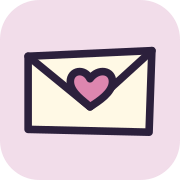
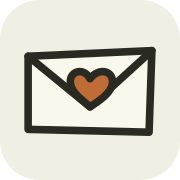
Update Site source

Changed region(s): [[0.1389, 0.25, 0.8611, 0.75]]

diff --git a/app/letter.css b/app/letter.css
@@ -1,10 +1,10 @@
 .post-site {
-  --post-ink: #2c203c;
-  --post-muted: #675168;
-  --post-pink: #e49abb;
-  --post-ground: #f2ddea;
-  --post-paper: #fffcf2;
-  --post-line: #d8b9cf;
+  --post-ink: #292b23;
+  --post-muted: #656951;
+  --post-accent: #a9552e;
+  --post-ground: #efefe4;
+  --post-paper: #f9f8ec;
+  --post-line: #dcdccc;
   --post-display: "Manrope", system-ui, sans-serif;
   --post-hand: "Caveat", "Comic Sans MS", cursive;
   min-height: 100vh;
@@ -13,21 +13,23 @@
   background: repeating-linear-gradient(to bottom, var(--post-ground) 0 33px, var(--post-line) 33px 34px);
 }
 .post-site *, .post-site *::before, .post-site *::after { box-sizing: border-box; }
-.post-site :is(button, input, textarea, select, summary, a):focus-visible { outline: 3px solid #823b69; outline-offset: 4px; }
+.post-site :is(button, input, textarea, select, summary, a):focus-visible { outline: 3px solid #92512c; outline-offset: 4px; }
 .post-site button:disabled { cursor: not-allowed; opacity: .55; }
 .post-site a { color: inherit; }
 .post-header { max-width: 1240px; margin: 0 auto; padding: 22px clamp(18px, 4vw, 54px); min-height: 76px; display: flex; align-items: center; justify-content: space-between; gap: 14px; }
 .post-brand { display: inline-flex; align-items: center; gap: 6px; color: var(--post-ink); font: 800 31px/1 var(--post-display); letter-spacing: -2px; text-decoration: none; }
 .post-brand svg { transform: rotate(-9deg); }
-.post-brand span { color: #a24673; margin-left: -4px; }
+.post-brand span { color: #a9552e; margin-left: -4px; }
 .post-about { display: inline-flex; align-items: center; gap: 7px; font: 750 13px/1.4 var(--post-display); text-decoration: none; }
 .post-about:hover, .post-back:hover { text-decoration: underline; text-underline-offset: 4px; }
 .post-main { max-width: none; margin: 0; }
 .post-hero, .post-ideas, .post-how, .post-demo, .post-faq, .post-inbox { text-align: center; }
 .post-hero { display: flex; flex-direction: column; align-items: center; padding: 30px 20px 42px; }
-.post-kicker { display: inline-flex; align-items: center; justify-content: center; gap: 6px; font: 800 11px/1.4 var(--post-display); letter-spacing: .17em; color: #82516d; }
+.post-kicker { display: inline-flex; align-items: center; justify-content: center; gap: 6px; font: 800 11px/1.4 var(--post-display); letter-spacing: .17em; color: #656b4f; }
 .post-hero h1, .post-heading h1 { font: 800 clamp(46px, 7vw, 74px)/1.02 var(--post-display); letter-spacing: -.073em; margin: 15px 0 13px; color: var(--post-ink); }
-.post-hero h1 em { color: #8d3e69; font: 700 1.05em/.9 var(--post-hand); }
+.post-hero h1 em { color: #a9552e; font: 700 1.09em/.9 var(--post-hand); }
+.post-hero > p, .post-postscript { font: 600 23px/1.25 var(--post-hand); }
+.post-postscript { margin: 28px 0 0; color: var(--post-muted); }
 .post-hero > p, .post-heading > p { color: var(--post-muted); font-size: clamp(15px, 2.1vw, 18px); line-height: 1.55; margin: 0; }
 .post-envelope-button { display: block; padding: 0; border: 0; background: none; color: inherit; margin: 0 auto; }
 .post-envelope { display: block; width: min(420px, 80vw); margin: -13px auto 0; color: var(--post-ink); transform: rotate(-4deg); }
@@ -36,7 +38,7 @@
 .post-envelope.is-compact { width: min(235px, 60vw); margin-top: -22px; }
 .post-envelope-button .post-envelope { transition: transform .23s ease; }
 .post-envelope-button:hover .post-envelope { transform: rotate(2deg) translateY(-6px); }
-.post-sparks { color: #9b4b77; }
+.post-sparks { color: #a9552e; }
 .post-letter-slide, .post-flap-open { opacity: 0; transition: opacity .25s, transform .35s; transform: translateY(35px); }
 .post-flap-closed, .post-seal { transition: opacity .2s; }
 .post-envelope.is-open .post-letter-slide, .post-envelope.is-open .post-flap-open { opacity: 1; transform: translateY(-28px); }
@@ -44,48 +46,48 @@
 .post-button { display: inline-flex; justify-content: center; align-items: center; gap: 9px; padding: 12px 22px; min-height: 46px; border: 2px solid var(--post-ink); border-radius: 999px; font: 800 14px/1.3 var(--post-display); text-decoration: none; color: var(--post-ink); box-shadow: 2px 3px 0 var(--post-ink); transition: transform .18s, box-shadow .18s; }
 .post-button:not(:disabled):hover { transform: translateY(-2px); box-shadow: 3px 5px 0 var(--post-ink); }
 .post-button:not(:disabled):active { transform: translate(2px, 3px); box-shadow: none; }
-.post-primary { background: var(--post-pink); }
+.post-primary { background: var(--post-accent); color: #fffaf0; }
 .post-secondary { background: var(--post-paper); }
 .post-hero > .post-button { padding: 14px 26px; font-size: 16px; }
 .post-note { display: block; font-size: 12px; color: var(--post-muted); line-height: 1.5; }
 .post-hero > .post-note { margin-top: 17px; }
-.post-ideas { padding: 29px 18px 52px; border-top: 1px dashed #c69eb9; }
+.post-ideas { padding: 29px 18px 52px; border-top: 1px dashed #c8cab6; }
 .post-site h2 { color: var(--post-ink); font: 800 clamp(30px, 5vw, 48px)/1.07 var(--post-display); letter-spacing: -.06em; margin: 10px 0 12px; }
 .post-ideas p, .post-how p { margin: 0; color: var(--post-muted); }
 .post-chips { display: flex; justify-content: center; flex-wrap: wrap; gap: 11px; max-width: 750px; margin: 21px auto 0; }
 .post-chips button, .post-options button { display: inline-flex; align-items: center; gap: 7px; min-height: 38px; padding: 8px 13px; border-radius: 12px 11px 14px 10px; border: 1.5px solid var(--post-ink); background: var(--post-paper); color: var(--post-ink); font: 750 13px var(--post-display); }
-.post-chips button:hover, .post-options button:hover, .post-options button[aria-pressed="true"] { background: #f7cbe1; }
-.post-chips button span { color: #a74876; }
+.post-chips button:hover, .post-options button:hover, .post-options button[aria-pressed="true"] { background: #eeebce; }
+.post-chips button span { color: #a9552e; }
 .post-how, .post-demo, .post-faq { max-width: 850px; margin: 0 auto; padding: 47px 22px; }
 .post-how ol { display: grid; grid-template-columns: repeat(3, 1fr); gap: 17px; padding: 0; margin: 27px 0 0; list-style: none; }
-.post-how li { border: 1.7px solid var(--post-ink); border-radius: 14px 12px 15px 11px; padding: 21px 15px; background: var(--post-paper); box-shadow: 2px 3px 0 #b889ac; }
-.post-how li:nth-child(2) { background: #fff0f5; }
-.post-how li:nth-child(3) { background: #f1e7ff; }
-.post-how li > svg { color: #a74876; }
+.post-how li { border: 1.7px solid var(--post-ink); border-radius: 14px 12px 15px 11px; padding: 21px 15px; background: var(--post-paper); box-shadow: 2px 3px 0 #bcbea5; }
+.post-how li:nth-child(2) { background: #f5eedc; }
+.post-how li:nth-child(3) { background: #e8eadd; }
+.post-how li > svg { color: #a9552e; }
 .post-how h3 { font: 800 16px/1.25 var(--post-display); margin: 8px 0; }
 .post-how p { font-size: 13px; }
-.post-demo { background: #faedf5c9; border-block: 1px dashed #c69eb9; }
+.post-demo { background: #f9f8ecc9; border-block: 1px dashed #c8cab6; }
 .post-demo .post-envelope { width: min(300px, 70vw); }
 .post-demo-paper { display: grid; justify-items: center; gap: 20px; max-width: 530px; margin: 24px auto 0; }
 .post-demo-paper .letter-paper { width: 100%; }
 .post-faq { max-width: 680px; padding-bottom: 68px; }
-.post-faq details { text-align: left; border-bottom: 1px dashed #b991ae; padding: 13px 2px; }
+.post-faq details { text-align: left; border-bottom: 1px dashed #c7c9b4; padding: 13px 2px; }
 .post-faq summary, .post-toolbar summary { cursor: pointer; font-weight: 750; }
 .post-faq details p { margin: 8px 0 0; color: var(--post-muted); line-height: 1.6; }
 .post-faq details a { text-decoration: underline; }
 .post-faq > .post-button { margin-top: 24px; }
 .post-footer { max-width: 1240px; margin: 0 auto; padding: 0 clamp(18px, 4vw, 54px); }
-.post-footer .site-footer { border-top-color: #b991ae; color: var(--post-muted); }
-.post-footer .site-footer a:hover { color: #823b69; }
+.post-footer .site-footer { border-top-color: #c7c9b4; color: var(--post-muted); }
+.post-footer .site-footer a:hover { color: #92512c; }
 .post-workflow, .post-inbox { max-width: 960px; margin: 0 auto; padding: 10px 22px 68px; min-height: calc(100vh - 146px); }
 .post-progress { display: flex; justify-content: center; flex-wrap: wrap; align-items: center; gap: 12px; margin: 0 auto 28px; width: fit-content; background: var(--post-paper); border: 1.5px solid var(--post-ink); border-radius: 11px 14px 11px 13px; padding: 8px 13px; }
-.post-progress > span { font-size: 10px; font-weight: 800; letter-spacing: .08em; color: #82516d; }
+.post-progress > span { font-size: 10px; font-weight: 800; letter-spacing: .08em; color: #656b4f; }
 .post-progress ol { display: flex; gap: 11px; padding: 0; margin: 0; list-style: none; }
-.post-progress li { display: flex; align-items: center; gap: 5px; color: #6d596b; font-size: 11px; font-weight: 750; }
+.post-progress li { display: flex; align-items: center; gap: 5px; color: #686d54; font-size: 11px; font-weight: 750; }
 .post-progress li[aria-current] { color: var(--post-ink); }
 .progress-dot { width: 8px; height: 8px; border: 1px solid var(--post-ink); border-radius: 50%; }
-.post-progress li[aria-current] .progress-dot { background: #e18cb2; }
-.post-progress li[data-complete="true"] .progress-dot { background: #ae6993; }
+.post-progress li[aria-current] .progress-dot { background: #bf6c37; }
+.post-progress li[data-complete="true"] .progress-dot { background: #747b58; }
 .post-heading { text-align: center; margin: 0 auto 28px; }
 .post-heading h1 { font-size: clamp(39px, 6vw, 62px); letter-spacing: -.067em; }
 .post-heading h1:focus { outline: none; }
@@ -93,49 +95,49 @@
 .post-toolbar { display: flex; justify-content: flex-end; margin-bottom: 15px; }
 .post-toolbar details { position: relative; }
 .post-toolbar summary { background: var(--post-paper); border: 1.5px solid var(--post-ink); border-radius: 10px 9px 12px 8px; padding: 9px 12px; font-size: 13px; }
-.post-template-menu { position: absolute; z-index: 3; top: calc(100% + 5px); right: 0; width: 205px; background: var(--post-paper); border: 1.5px solid var(--post-ink); border-radius: 10px; padding: 6px; box-shadow: 3px 4px 0 #b889ac; }
+.post-template-menu { position: absolute; z-index: 3; top: calc(100% + 5px); right: 0; width: 205px; background: var(--post-paper); border: 1.5px solid var(--post-ink); border-radius: 10px; padding: 6px; box-shadow: 3px 4px 0 #bcbea5; }
 .post-template-menu button { width: 100%; background: none; border: 0; text-align: left; color: var(--post-ink); padding: 8px; border-radius: 6px; font-size: 13px; }
-.post-template-menu button:hover { background: #f7cbe1; }
+.post-template-menu button:hover { background: #eeebce; }
 .post-editor { position: relative; isolation: isolate; }
-.post-editor::after { content: ""; position: absolute; z-index: -1; inset: 4px -4px -5px 7px; transform: rotate(1.15deg); border: 2px solid var(--post-ink); border-radius: 6px 9px 5px 8px; background: #fff5e3; }
+.post-editor::after { content: ""; position: absolute; z-index: -1; inset: 4px -4px -5px 7px; transform: rotate(1.15deg); border: 2px solid var(--post-ink); border-radius: 6px 9px 5px 8px; background: #e8e9d7; }
 .post-editor textarea { display: block; width: 100%; height: clamp(270px, 42vh, 430px); min-height: 220px; max-height: none; resize: vertical; border: 2px solid var(--post-ink); border-radius: 7px 6px 8px 5px; background: var(--post-paper); padding: 24px 28px 40px; font: 500 clamp(23px, 3vw, 30px)/1.27 var(--post-hand); color: var(--post-ink); }
-.post-editor textarea::placeholder { color: #897584; opacity: 1; }
-.post-count { position: absolute; right: 15px; bottom: 10px; background: var(--post-paper); color: #745d70; font: 750 11px var(--post-display); pointer-events: none; }
+.post-editor textarea::placeholder { color: #777a65; opacity: 1; }
+.post-count { position: absolute; right: 15px; bottom: 10px; background: var(--post-paper); color: #6d7259; font: 750 11px var(--post-display); pointer-events: none; }
 .post-actions { display: flex; justify-content: space-between; align-items: center; gap: 12px; margin: 23px auto 0; }
 .post-back { display: inline-flex; align-items: center; gap: 5px; padding: 6px 0; border: 0; background: none; color: var(--post-ink); font: 750 13px var(--post-display); }
 .post-customize { display: grid; grid-template-columns: minmax(255px, 1fr) minmax(0, 1.2fr); align-items: start; gap: 26px; }
-.post-settings, .post-panel { background: var(--post-paper); border: 2px solid var(--post-ink); border-radius: 12px 9px 13px 8px; padding: 21px; box-shadow: 3px 4px 0 #bd91b1; text-align: left; }
+.post-settings, .post-panel { background: var(--post-paper); border: 2px solid var(--post-ink); border-radius: 12px 9px 13px 8px; padding: 21px; box-shadow: 3px 4px 0 #bfc2a8; text-align: left; }
 .post-settings label, .post-password label, .post-panel label { display: block; font: 800 13px var(--post-display); }
 .post-settings label span { color: var(--post-muted); font-weight: 500; font-size: 10px; }
-.post-settings input, .post-panel input, .post-panel select, .post-password input { width: 100%; min-width: 0; background: #fffdfa; border: 1.5px solid #a4869c; border-radius: 7px; padding: 10px 11px; color: var(--post-ink); font: 500 14px var(--post-display); }
+.post-settings input, .post-panel input, .post-panel select, .post-password input { width: 100%; min-width: 0; background: #fdfcf5; border: 1.5px solid #999d82; border-radius: 7px; padding: 10px 11px; color: var(--post-ink); font: 500 14px var(--post-display); }
 .post-settings input, .post-panel select { margin-top: 5px; }
 .post-names { display: grid; grid-template-columns: 1fr 1fr; gap: 10px; }
 .post-settings fieldset { border: 0; padding: 0; margin: 17px 0 0; min-width: 0; }
 .post-settings legend { padding: 0; margin-bottom: 6px; font: 800 13px var(--post-display); }
 .post-options { display: flex; flex-wrap: wrap; gap: 6px; }
 .post-options button { font-size: 12px; min-height: 35px; padding: 6px 9px; }
-.paper-swatch { width: 15px; height: 15px; border: 1px solid #715c70; border-radius: 50%; }
+.paper-swatch { width: 15px; height: 15px; border: 1px solid #747b58; border-radius: 50%; }
 .post-style-preview { display: grid; gap: 10px; justify-items: start; }
 .post-style-preview .letter-paper { width: 100%; max-height: 390px; overflow: auto; }
-.letter-paper { padding: 23px 26px 28px; border: 2px solid var(--post-ink); border-radius: 6px 8px 7px 5px; background: var(--paper-color, var(--post-paper)); box-shadow: 3px 5px 0 #bd91b1; min-height: 210px; text-align: left; overflow-wrap: anywhere; }
-.letter-paper header { display: flex; justify-content: space-between; align-items: center; gap: 16px; color: #82516d; font: 800 13px var(--post-display); padding-bottom: 10px; border-bottom: 1px dashed #b68fa9; }
-.paper-stamp { color: #a34673; }
+.letter-paper { padding: 23px 26px 28px; border: 2px solid var(--post-ink); border-radius: 6px 8px 7px 5px; background: var(--paper-color, var(--post-paper)); box-shadow: 3px 5px 0 #bfc2a8; min-height: 210px; text-align: left; overflow-wrap: anywhere; }
+.letter-paper header { display: flex; justify-content: space-between; align-items: center; gap: 16px; color: #656b4f; font: 800 13px var(--post-display); padding-bottom: 10px; border-bottom: 1px dashed #c8cbb1; }
+.paper-stamp { color: #a9552e; }
 .letter-paper p { white-space: pre-wrap; margin: 16px 0 0; }
 .letter-font-handwritten { font: 500 28px/1.27 var(--post-hand); }
 .letter-font-classic { font: 400 20px/1.5 Georgia, serif; }
 .letter-font-clean { font: 500 17px/1.6 var(--post-display); }
-.letter-paper footer { border: 0; display: block; padding: 0; margin-top: 20px; font: inherit; color: #82516d; }
+.letter-paper footer { border: 0; display: block; padding: 0; margin-top: 20px; font: inherit; color: #656b4f; }
 .post-panel { width: min(100%, 560px); margin: 0 auto; padding: 18px 23px 22px; }
 .post-panel > .post-envelope { margin-bottom: 5px; }
 .post-password { margin-top: 15px; }
 .post-password-row, .post-copy { display: flex; align-items: stretch; gap: 7px; margin-top: 5px; }
-.post-password-row > button { display: inline-grid; place-items: center; flex: 0 0 43px; background: var(--post-paper); border: 1.5px solid #a4869c; border-radius: 7px; color: var(--post-ink); }
+.post-password-row > button { display: inline-grid; place-items: center; flex: 0 0 43px; background: var(--post-paper); border: 1.5px solid #999d82; border-radius: 7px; color: var(--post-ink); }
 .post-password small { display: block; color: var(--post-muted); margin-top: 5px; font-size: 12px; line-height: 1.45; }
 .post-private { display: flex; align-items: flex-start; gap: 6px; margin: 13px 0 0; color: var(--post-muted); font-size: 12px; line-height: 1.5; }
 .post-private svg { flex-shrink: 0; }
 .post-copy .post-button { flex: 0 0 auto; padding: 8px 13px; min-height: 39px; }
 .post-copy input { font-size: 12px; }
-.post-error { color: #8b254b; background: #fce4ec; padding: 9px 12px; border: 1px solid #d59eb6; border-radius: 8px; font-size: 13px; }
+.post-error { color: #8c3828; background: #fae9df; padding: 9px 12px; border: 1px solid #d5a592; border-radius: 8px; font-size: 13px; }
 .post-inbox { padding-top: 28px; }
 .post-inbox .post-envelope { margin-top: -25px; }
 .post-inbox-form { width: min(100%, 370px); margin: auto; }

diff --git a/app/page.tsx b/app/page.tsx
@@ -194,7 +194,7 @@ export default function Home() {
           <div className="post-heading"><span className="post-kicker">A LITTLE NOTE FROM YOU</span><h1 ref={title} tabIndex={-1}>Write your letter.</h1><p>What would you like them to know?</p></div>
           <form onSubmit={event => { event.preventDefault(); if (letter.message.trim()) go("style"); }}>
             <div className="post-toolbar"><details><summary>✦ Writing prompts</summary><div className="post-template-menu">{ideas.map(idea => <button key={idea.name} type="button" onClick={event => { event.currentTarget.closest("details")?.removeAttribute("open"); insertTemplate(idea.text); }}><span aria-hidden="true">{idea.mark}</span> {idea.name}</button>)}</div></details></div>
-            <div className="post-editor letter-font-handwritten"><label className="sr-only" htmlFor="letter-body">Your letter</label><textarea id="letter-body" ref={editor} value={letter.message} onChange={event => update("message", event.target.value)} maxLength={MAX_MESSAGE_LENGTH} placeholder={"Dear someone,\n\nI’ve been meaning to tell you…"} required/><span className="post-count">{letter.message.length.toLocaleString()} / 4,000</span></div>
+            <div className="post-editor letter-font-handwritten"><label className="sr-only" htmlFor="letter-body">Your letter</label><textarea id="letter-body" ref={editor} value={letter.message} onChange={event => update("message", event.target.value)} maxLength={MAX_MESSAGE_LENGTH} placeholder="Write something just for them…" required/><span className="post-count">{letter.message.length.toLocaleString()} / 4,000</span></div>
             <div className="post-actions"><button type="button" className="post-back" onClick={() => go("home")}><ArrowLeft size={17}/> Home</button><button className="post-button post-primary" disabled={!letter.message.trim()}>Customize letter <ArrowRight size={18}/></button></div>
           </form>
         </>}
@@ -219,11 +219,11 @@ export default function Home() {
             {passwordField("seal-password", "Password (optional)", "If you add a password, share it separately from the link.", "new-password")}
             <p className="post-private"><ShieldCheck size={17}/> Your words and design are encrypted before they leave your browser.</p>
             {error && <p className="post-error" role="alert">{error}</p>}
-            <div className="post-actions"><button type="button" disabled={busy} className="post-back" onClick={() => go("style")}><ArrowLeft size={17}/> Customize</button><button className="post-button post-primary" disabled={busy}>{busy ? "Sealing…" : "Seal & create link"} <Send size={18}/></button></div>
+            <div className="post-actions"><button type="button" disabled={busy} className="post-back" onClick={() => go("style")}><ArrowLeft size={17}/> Customize</button><button className="post-button post-primary" disabled={busy}>{busy ? "Sealing…" : "Seal & create a link"} <Send size={18}/></button></div>
           </form>
         </>}
         {view === "shared" && <>
-          <div className="post-heading"><span className="post-kicker">SIGNED, SEALED, READY</span><h1 ref={title} tabIndex={-1}>Pass it on.</h1><p>Send this private link to the person it’s meant for.</p></div>
+          <div className="post-heading"><span className="post-kicker">SIGNED, SEALED, READY</span><h1 ref={title} tabIndex={-1}>Ready to pass it on.</h1><p>Share this link with your person. It works once, then disappears.</p></div>
           <section className="post-panel post-result">
             <Envelope compact paper={letter.paper} stamp={letter.stamp}/>
             <label htmlFor="share-link">Your one-time letter link</label>
@@ -231,28 +231,28 @@ export default function Home() {
             <p className="post-note" role="status">{copied ? "Link copied. " : ""}Opens once · Expires in {expiry} if unread.</p>
             {protectedCreated && <p className="post-private"><LockKeyhole size={16}/> Password protected. Send the password separately.</p>}
             {error && <p className="post-error" role="alert">{error}</p>}
-            <div className="post-actions"><button className="post-back" onClick={() => reset("write")}><ArrowLeft size={17}/> Write another</button><button className="post-button post-secondary" onClick={share}><Share2 size={17}/> Share link</button></div>
+            <div className="post-actions"><button className="post-back" onClick={() => reset("write")}><ArrowLeft size={17}/> Write another message</button><button className="post-button post-secondary" onClick={share}><Share2 size={17}/> Share link</button></div>
           </section>
         </>}
       </div>}
       {view === "inbox" && <div className="post-inbox">
-        <div className="post-heading"><span className="post-kicker">SPECIAL DELIVERY</span><h1 ref={title} tabIndex={-1}>A letter for you.</h1><p>Open it when you’re ready. You get one read.</p></div>
+        <div className="post-heading"><span className="post-kicker">SPECIAL DELIVERY</span><h1 ref={title} tabIndex={-1}>A moment just for you.</h1><p>This message can only be revealed once. Make sure you’re ready before opening.</p></div>
         <Envelope open={busy}/>
         <form className="post-inbox-form" onSubmit={event => { event.preventDefault(); void reveal(); }}>
           {secret?.protected && passwordField("open-password", "Letter password", "A wrong password won’t use your one read.", "off")}
           {error && <p className="post-error" role="alert">{error}</p>}
-          <button className="post-button post-primary" disabled={busy || (secret?.protected && !password)}>{busy ? "Opening…" : "Open my letter"} <Mail size={18}/></button>
+          <button className="post-button post-primary" disabled={busy || (secret?.protected && !password)}>{busy ? "Opening…" : "Reveal my message"} <Mail size={18}/></button>
         </form>
       </div>}
       {view === "read" && incoming && <div className="post-inbox post-reading">
         <div className="post-heading"><span className="post-kicker">OPENED JUST FOR YOU</span><h1 ref={title} tabIndex={-1}>Your letter.</h1><p>The link has been used. Take your time reading it here.</p></div>
         <LetterPaper letter={incoming}/>
-        <button className="post-button post-secondary" onClick={() => reset()}>Close letter <Check size={18}/></button>
+        <button className="post-button post-secondary" onClick={() => reset()}>Close message <Check size={18}/></button>
       </div>}
       {view === "gone" && <div className="post-inbox">
-        <div className="post-heading"><span className="post-kicker">RETURN TO SENDER</span><h1 ref={title} tabIndex={-1}>This letter is gone.</h1><p>{error || "It may have already been read, expired, or arrived with an incomplete link."}</p></div>
+        <div className="post-heading"><span className="post-kicker">RETURN TO SENDER</span><h1 ref={title} tabIndex={-1}>Here once. Now gone.</h1><p>{error || "It may have already been read, expired, or arrived with an incomplete link."}</p></div>
         <Envelope open compact stamp="none"/>
-        <button className="post-button post-primary" onClick={() => reset("write")}>Write a letter <ArrowRight size={18}/></button>
+        <button className="post-button post-primary" onClick={() => reset("write")}>Write your own message <ArrowRight size={18}/></button>
       </div>}
     </main>
     <div className="post-footer"><SiteFooter/></div>

diff --git a/components/site/post-home.tsx b/components/site/post-home.tsx
@@ -18,11 +18,11 @@ export function PostHome({ start }: { start: (text?: string) => void }) {
   const [sampleOpen, setSampleOpen] = useState(false);
   return <>
     <section className="post-hero" aria-labelledby="post-title">
-      <span className="post-kicker"><Heart size={13}/> THE ONE-TIME POST</span>
-      <h1 id="post-title">Some words are<br/>just for <em>you two.</em></h1>
-      <p>A little letter for someone special. One link, one read.</p>
+      <span className="post-kicker"><Heart size={13}/> WORDS THAT DON’T STAY FOREVER</span>
+      <h1 id="post-title">A note for <em>right now.</em></h1>
+      <p>Write it. Pass it on. Let it go.</p>
       <button type="button" className="post-envelope-button" aria-label="Start writing a letter" onClick={() => start()}><Envelope/></button>
-      <button type="button" className="post-button post-primary" onClick={() => start()}>Start your letter <ArrowRight size={19}/></button>
+      <button type="button" className="post-button post-primary" onClick={() => start()}>Write a note <ArrowRight size={19}/></button>
       <span className="post-note">Free to send · Encrypted in your browser</span>
     </section>
     <section className="post-ideas" aria-labelledby="ideas-title">
@@ -31,12 +31,12 @@ export function PostHome({ start }: { start: (text?: string) => void }) {
       <div className="post-chips">{ideas.map(idea => <button type="button" key={idea.name} onClick={() => start(idea.text)}><span aria-hidden="true">{idea.mark}</span>{idea.name}</button>)}</div>
     </section>
     <section className="post-how" aria-labelledby="how-title">
-      <span className="post-kicker">FROM YOU TO THEM</span>
-      <h2 id="how-title">Write it. Dress it. Send it.</h2>
+      <span className="post-kicker">A LITTLE PRIVATE CORRESPONDENCE</span>
+      <h2 id="how-title">How it works</h2>
       <ol>
-        <li><PenLine size={24}/><h3>Write your letter</h3><p>Start with a blank page or a little prompt.</p></li>
-        <li><Sparkles size={24}/><h3>Make it yours</h3><p>Pick your paper, handwriting, and seal.</p></li>
-        <li><LockKeyhole size={24}/><h3>Share it privately</h3><p>Send a link that opens only once.</p></li>
+        <li><PenLine size={24}/><h3>Write it privately</h3><p>Your words are encrypted before they leave your device.</p></li>
+        <li><Sparkles size={24}/><h3>Send the link</h3><p>A small link for something you don’t want to leave around.</p></li>
+        <li><LockKeyhole size={24}/><h3>One read. Then gone.</h3><p>Once opened, the link won’t work twice.</p></li>
       </ol>
     </section>
     <section className="post-demo" aria-labelledby="demo-title">
@@ -53,7 +53,8 @@ export function PostHome({ start }: { start: (text?: string) => void }) {
       <details><summary>Is my letter private?</summary><p>Your browser encrypts the words and design together. Only someone with the full link and, if set, the password can open it.</p></details>
       <details><summary>What if they don’t open it?</summary><p>Choose an expiry of one hour, one day, or seven days. After that, the link no longer opens.</p></details>
       <details><summary>Do I need an account or a payment?</summary><p>Once is free. The <a href="https://once-message.later-voice-token.workers.dev/">public version</a> does not require an account.</p></details>
-      <button type="button" className="post-button post-primary" onClick={() => start()}>Write someone a letter <ArrowRight size={18}/></button>
+      <button type="button" className="post-button post-primary" onClick={() => start()}>Write your own message <ArrowRight size={18}/></button>
+      <p className="post-postscript">P.S. Some things are better left off the record.</p>
     </section>
   </>;
 }

diff --git a/app/globals.css b/app/globals.css
@@ -1,25 +1,25 @@
 @import url('https://fonts.googleapis.com/css2?family=Caveat:wght@400;500;600;700&family=DM+Sans:wght@400;500;600;700&family=Manrope:wght@400;500;600;700;750;800&display=swap');
 
 * { box-sizing: border-box; }
-body { margin: 0; background: #f2ddea; color: #2c203c; font: 14px "DM Sans", system-ui, sans-serif; -webkit-font-smoothing: antialiased; }
+body { margin: 0; background: #efefe4; color: #292b23; font: 14px "DM Sans", system-ui, sans-serif; -webkit-font-smoothing: antialiased; }
 button, input, textarea, select { font: inherit; }
 button { cursor: pointer; }
 button:disabled { cursor: not-allowed; }
 button, a, select { -webkit-tap-highlight-color: transparent; }
 a { color: inherit; }
 .sr-only { position: absolute; width: 1px; height: 1px; padding: 0; margin: -1px; overflow: hidden; clip-path: inset(50%); white-space: nowrap; border: 0; }
-.site-footer { display: flex; align-items: center; justify-content: space-between; flex-wrap: wrap; gap: 14px 20px; padding: 19px 0 22px; border-top: 1px dashed #b991ae; font-size: 11px; }
+.site-footer { display: flex; align-items: center; justify-content: space-between; flex-wrap: wrap; gap: 14px 20px; padding: 19px 0 22px; border-top: 1px dashed #c7c9b4; font-size: 11px; }
 .site-footer > span { font: 800 10px "Manrope", sans-serif; letter-spacing: .12em; }
 .site-footer nav { display: flex; flex-wrap: wrap; gap: 11px 15px; }
 .site-footer a { text-decoration: none; }
 .site-footer a:hover { text-decoration: underline; text-underline-offset: 3px; }
-.document-main { width: min(calc(100% - 32px), 750px); margin: 24px auto 45px; padding: clamp(22px, 6vw, 50px); background: #fffcf2; border: 2px solid #2c203c; border-radius: 8px 12px 9px 7px; box-shadow: 3px 4px 0 #bd91b1; }
+.document-main { width: min(calc(100% - 32px), 750px); margin: 24px auto 45px; padding: clamp(22px, 6vw, 50px); background: #f9f8ec; border: 2px solid #292b23; border-radius: 8px 12px 9px 7px; box-shadow: 3px 4px 0 #bfc2a8; }
 .document-main h1 { font: 800 clamp(30px, 6vw, 50px)/1.1 "Manrope", sans-serif; letter-spacing: -.05em; margin: 10px 0; }
-.document-main .document-date { font-size: 11px; color: #675168; margin-bottom: 23px; }
-.document-main .document-intro { font-size: 17px; color: #463249; }
+.document-main .document-date { font-size: 11px; color: #656951; margin-bottom: 23px; }
+.document-main .document-intro { font-size: 17px; color: #464a38; }
 .document-main section { margin: 29px 0; }
 .document-main section h2 { font: 800 19px/1.3 "Manrope", sans-serif; letter-spacing: -.02em; margin: 0 0 11px; }
-.document-main p, .document-main li { font-size: 14px; line-height: 1.8; color: #554357; }
+.document-main p, .document-main li { font-size: 14px; line-height: 1.8; color: #555941; }
 .document-main ul { padding-left: 20px; }
 .document-main a { color: #833a63; text-underline-offset: 3px; overflow-wrap: anywhere; }
-.document-back { padding-top: 18px; border-top: 1px dashed #b991ae; }
+.document-back { padding-top: 18px; border-top: 1px dashed #c7c9b4; }

diff --git a/components/site/letter-art.tsx b/components/site/letter-art.tsx
@@ -17,18 +17,18 @@ export function Envelope({ open = false, compact = false, paper = "cream", stamp
         <path d="M31 111v22m-10-11h20M382 77v26m-12-13h24M396 206v18m-9-9h18" />
         <path d="m50 72 7 8m-12 4 10 1m324 151 9 6" />
       </g>
-      <path d="m69 105 292-5 4 170-300-2Z" fill="#271a36" opacity=".15" transform="translate(3 8)" />
-      <path className="post-flap-open" d="m68 105 147-82 147 78-3 102-288 4Z" fill="#f4dfcc" stroke="currentColor" strokeWidth="3.3" strokeLinejoin="round"/>
+      <path d="m69 105 292-5 4 170-300-2Z" fill="#292b23" opacity=".15" transform="translate(3 8)" />
+      <path className="post-flap-open" d="m68 105 147-82 147 78-3 102-288 4Z" fill="#e7e8d3" stroke="currentColor" strokeWidth="3.3" strokeLinejoin="round"/>
       <g className="post-letter-slide">
-        <path d="m99 91 227 1 6 148-238 2Z" fill="#fffdf6" stroke="currentColor" strokeWidth="3" strokeLinejoin="round"/>
-        <path d="m123 116 173 1m-174 19 153 1m-153 19 166 1" stroke="#d9bdc5" strokeWidth="2" strokeLinecap="round"/>
+        <path d="m99 91 227 1 6 148-238 2Z" fill="#fdfcf1" stroke="currentColor" strokeWidth="3" strokeLinejoin="round"/>
+        <path d="m123 116 173 1m-174 19 153 1m-153 19 166 1" stroke="#dcdccc" strokeWidth="2" strokeLinecap="round"/>
       </g>
       <path d="m68 104 72 1 74-2 76 1 72-3-1 57 3 54-2 57-78 1-68-2-75 2-75-3 2-55-1-56Z" fill="var(--paper-color)" stroke="currentColor" strokeWidth="3.6" strokeLinejoin="round"/>
       <path d="m67 267 92-77m204 79-94-79" stroke="currentColor" strokeWidth="2.7" strokeLinecap="round" opacity=".55"/>
       <path className="post-flap-closed" d="m68 104 73 2 73-3 78 1 70-3-45 37-48 36-54 41-46-36-52-39Z" fill="var(--paper-color)" stroke="currentColor" strokeWidth="3.6" strokeLinejoin="round"/>
       <g className="post-seal">
-        <circle cx="215" cy="180" r="31" fill="#dc81a9" stroke="currentColor" strokeWidth="2.7"/>
-        {stamp === "heart" && <path d="M215 193c-4-4-17-12-17-21 0-9 12-10 17-2 5-8 17-7 17 2 0 9-13 17-17 21Z" fill="#9b315d" stroke="currentColor" strokeWidth="2.4" strokeLinejoin="round"/>}
+        <circle cx="215" cy="180" r="31" fill="#bf6c37" stroke="currentColor" strokeWidth="2.7"/>
+        {stamp === "heart" && <path d="M215 193c-4-4-17-12-17-21 0-9 12-10 17-2 5-8 17-7 17 2 0 9-13 17-17 21Z" fill="#f9f8ec" stroke="currentColor" strokeWidth="2.4" strokeLinejoin="round"/>}
         {stamp === "star" && <path d="m215 160 5 12 13 1-10 8 3 13-11-7-11 7 3-13-10-8 13-1Z" fill="#ffe6a2" stroke="currentColor" strokeWidth="2" strokeLinejoin="round"/>}
         {stamp === "flower" && <path d="M215 169c-9-18-23-5-12 5-19 0-15 17 0 13-5 16 12 21 13 5 11 11 24-1 11-7 15-8 4-23-12-16Z" fill="#ffecb5" stroke="currentColor" strokeWidth="2"/>}
         {stamp === "none" && <path d="m204 180 8 8 15-17" stroke="currentColor" strokeWidth="3" strokeLinecap="round" strokeLinejoin="round"/>}

diff --git a/lib/site.ts b/lib/site.ts
@@ -3,16 +3,16 @@ export const SITE_URL = "https://once-message.later-voice-token.workers.dev";
 export const REPOSITORY_URL = "https://github.com/nani-samireddy/one-time-messager";
 export const LAST_UPDATED = "2026-11-11";
 export const LAST_UPDATED_LABEL = "11 November 2026";
-export const SITE_DESCRIPTION = "Write and personalize an encrypted letter. Share a private link that opens once, with optional password protection.";
+export const SITE_DESCRIPTION = "Send an encrypted, one-time message with an optional password. Share a private link that stops working after one reveal.";
 export function pageMetadata(title: string, description: string, path: string): Metadata {
   return {
     title, description, alternates: { canonical: `${SITE_URL}${path}` },
-    openGraph: { title: `${title} · Once`, description, url: `${SITE_URL}${path}`, siteName: "Once", type: "website", locale: "en_US", images: [{ url: `${SITE_URL}/social-preview.png`, width: 1200, height: 630, alt: "Once — a private letter, read once" }] },
+    openGraph: { title: `${title} · Once`, description, url: `${SITE_URL}${path}`, siteName: "Once", type: "website", locale: "en_US", images: [{ url: `${SITE_URL}/social-preview.png`, width: 1200, height: 630, alt: "Once — a private note, read once" }] },
     twitter: { card: "summary_large_image", title: `${title} · Once`, description, images: [`${SITE_URL}/social-preview.png`] },
   };
 }
 export const publicPages = [
-  { path: "/", title: "Once — encrypted one-time letters", description: SITE_DESCRIPTION },
+  { path: "/", title: "Once — encrypted one-time messages", description: SITE_DESCRIPTION },
   { path: "/about", title: "How Once works", description: "How Once encrypts messages, protects them with optional passwords, and enforces one-time retrieval." },
   { path: "/privacy", title: "Privacy policy", description: "What Once stores, how message deletion works, and which providers help deliver the service." },
   { path: "/terms", title: "Terms and conditions", description: "The rules, responsibilities, and service limits for using Once." },

diff --git a/app/layout.tsx b/app/layout.tsx
@@ -3,9 +3,9 @@ import { SITE_URL, SITE_DESCRIPTION, pageMetadata } from "../lib/site";
 import "./globals.css";
 import "./letter.css";
 export const metadata: Metadata = {
-  ...pageMetadata("Encrypted one-time letters", SITE_DESCRIPTION, "/"),
+  ...pageMetadata("Encrypted one-time messages", SITE_DESCRIPTION, "/"),
   metadataBase: new URL(SITE_URL),
-  title: { default: "Once — encrypted one-time letters", template: "%s · Once" },
+  title: { default: "Once — encrypted one-time messages", template: "%s · Once" },
   applicationName: "Once",
   referrer: "no-referrer",
   robots: { index: true, follow: true },

diff --git a/lib/letter.ts b/lib/letter.ts
@@ -1,7 +1,7 @@
 export const MAX_MESSAGE_LENGTH = 4000;
 export const MAX_NAME_LENGTH = 60;
 export const papers = {
-  cream: { label: "Vanilla", color: "#fff9e5" },
+  cream: { label: "Vanilla", color: "#f9f8ec" },
   rose: { label: "Rose", color: "#ffe7ee" },
   lilac: { label: "Lilac", color: "#f0e9ff" },
   mint: { label: "Mint", color: "#e6f5e8" },

diff --git a/README.md b/README.md
@@ -57,7 +57,7 @@ The integration check covers encryption with Unicode, successful first reveal, r
 - AES-256-GCM encryption happens in the browser. The server receives ciphertext and an IV, never the key or plaintext.
 - Styled letters use `/#<random-id>.<key-material>[.p].l`. Text, optional names, and styling are encrypted together. Older plain-text links without the `.l` flag remain supported. Both the ID and key material live in the fragment. The ID is sent explicitly to the reveal API; the key never is.
 - The URL does not contain the entire message: that would let anyone decode it repeatedly. A server-side record is necessary to enforce one-time retrieval across devices.
-- The Open my letter button prevents ordinary link preview crawlers from consuming messages. A single `DELETE ... RETURNING` query retrieves and deletes the message, preventing simultaneous reads.
+- The Reveal my message button prevents ordinary link preview crawlers from consuming messages. A single `DELETE ... RETURNING` query retrieves and deletes the message, preventing simultaneous reads.
 - Unopened messages become inaccessible after 1 hour, 24 hours, or 7 days. Expired rows are cleaned up on subsequent creates. With no subsequent traffic they may remain encrypted in the database until cleanup; they cannot be revealed through the API.
 - The reader can view the message until closing or navigating away. Refreshing does not retrieve it again. Network failure after deletion can lose a message before the recipient sees it.
 - Anyone with the complete link and, for protected messages, the password can reveal it first. Recipients can still copy or screenshot the message. Deletion from the live application database does not promise erasure from provider backups.
